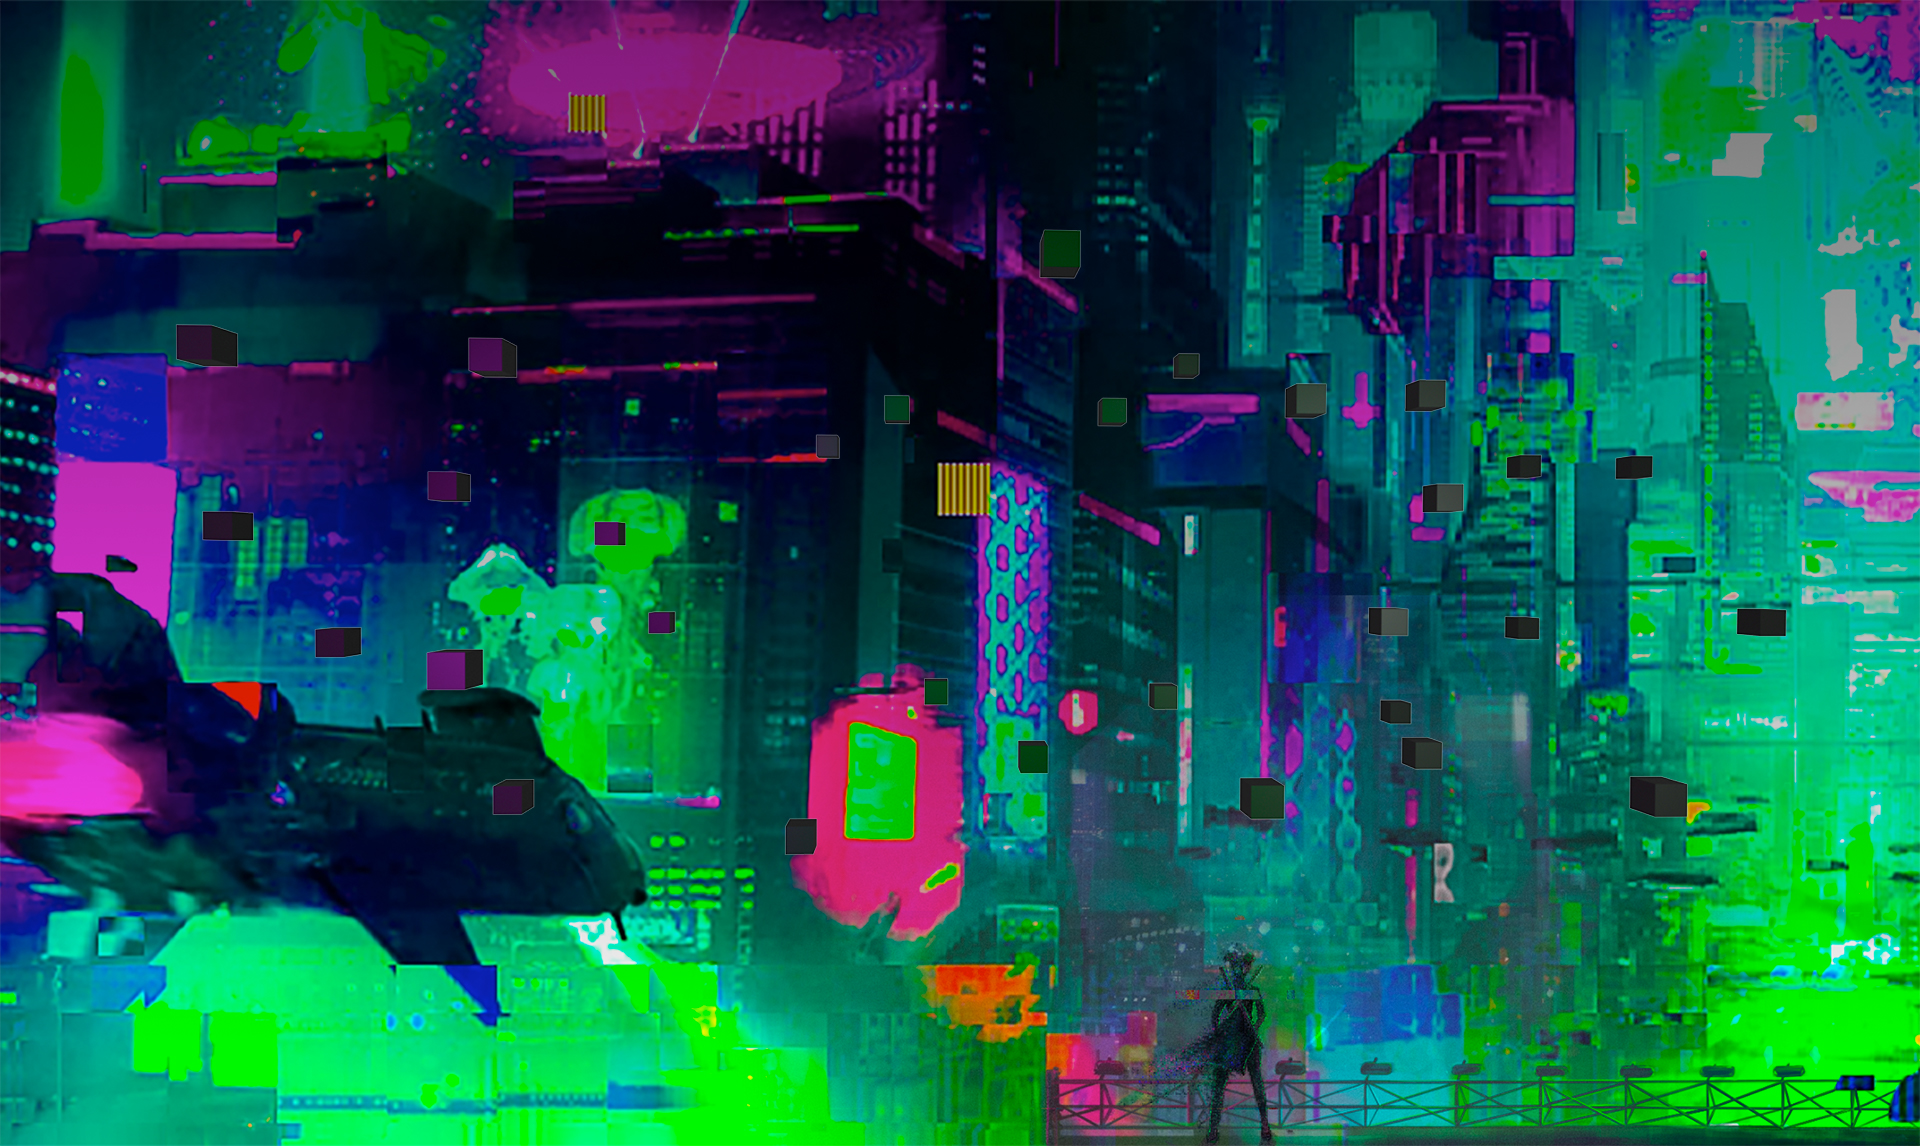
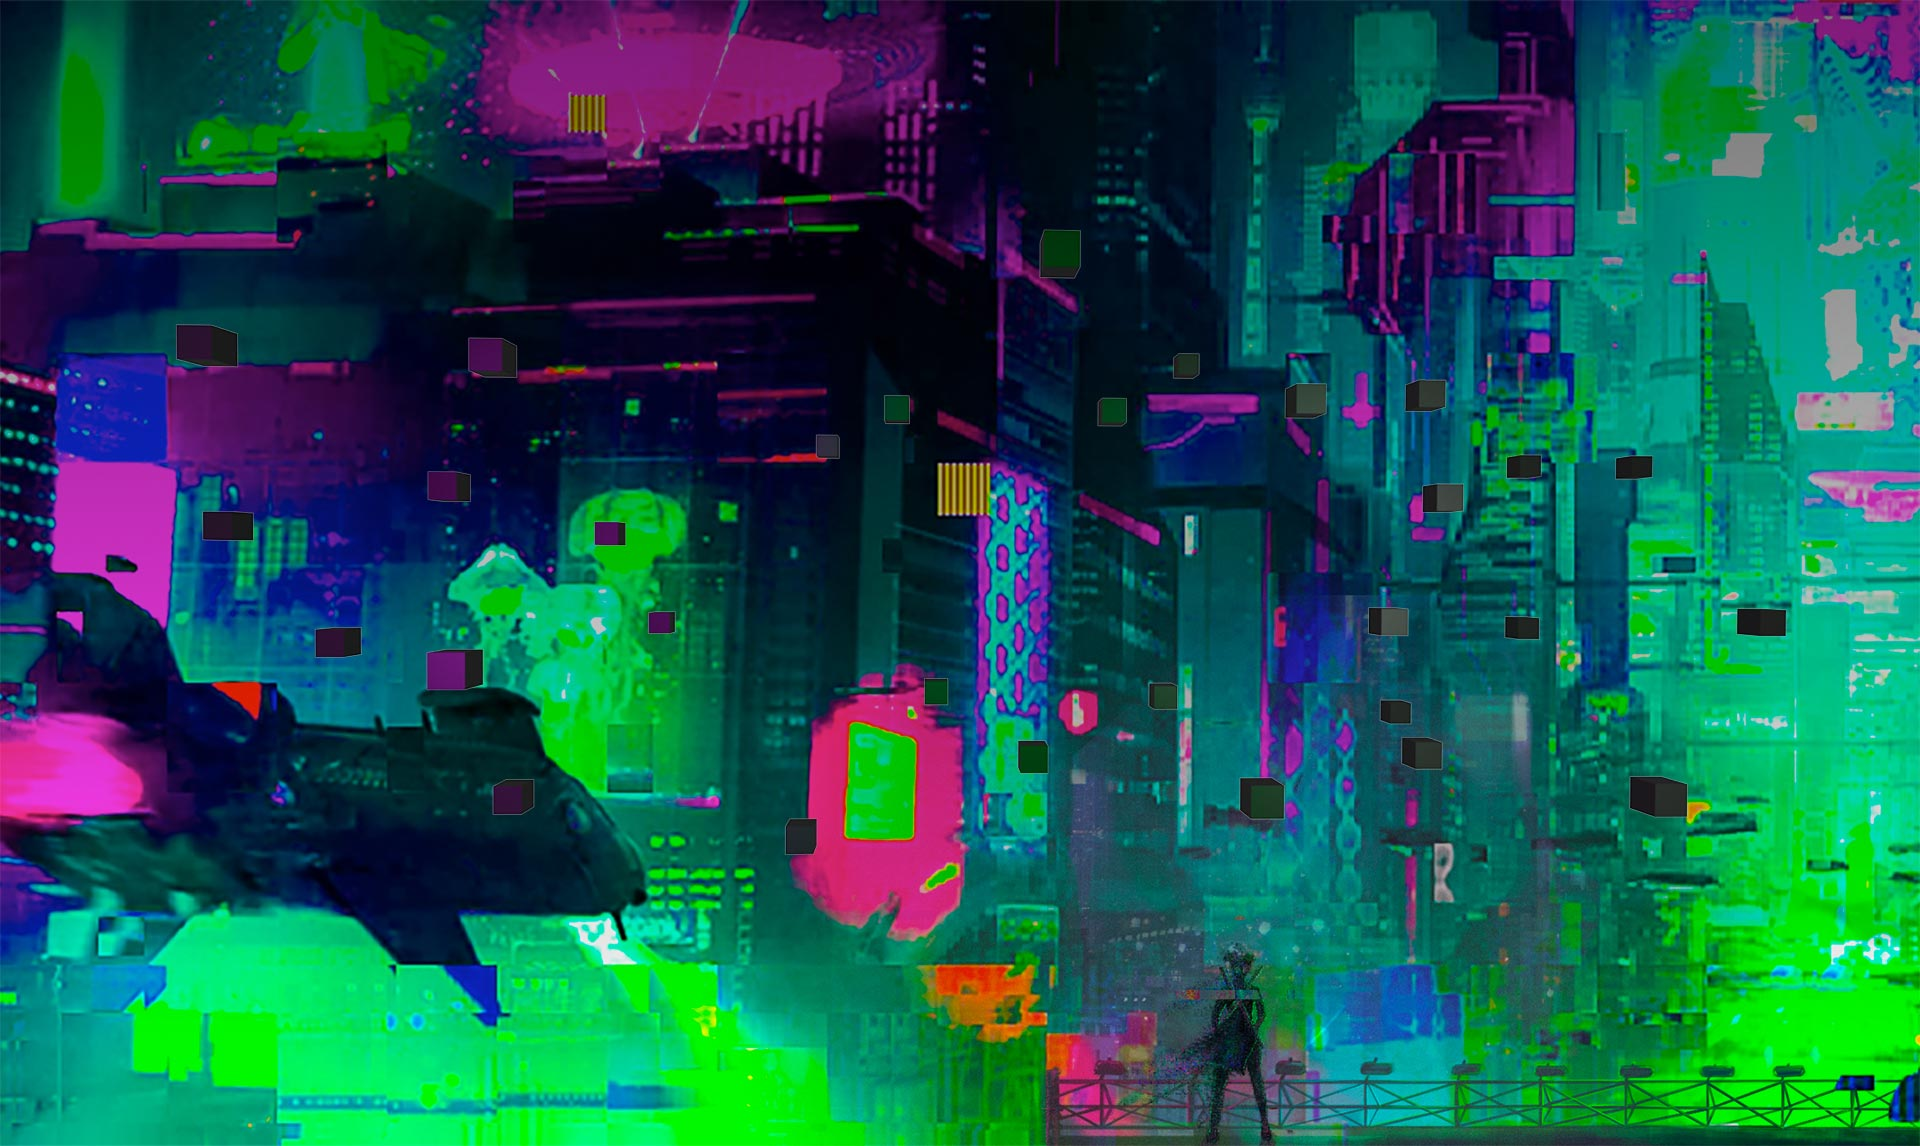
optimise images

diff --git a/src/components/sections/Bot.tsx b/src/components/sections/Bot.tsx
@@ -3,7 +3,7 @@ import React from 'react'
 import { Context } from '../Store'
 import ExternalLink from '../ExternalLink'
 
-import GirlImg from '../../styles/img/girl.png'
+import GirlImg from '../../styles/img/girl.jpg'
 
 
 export type BotPropsType = {}
